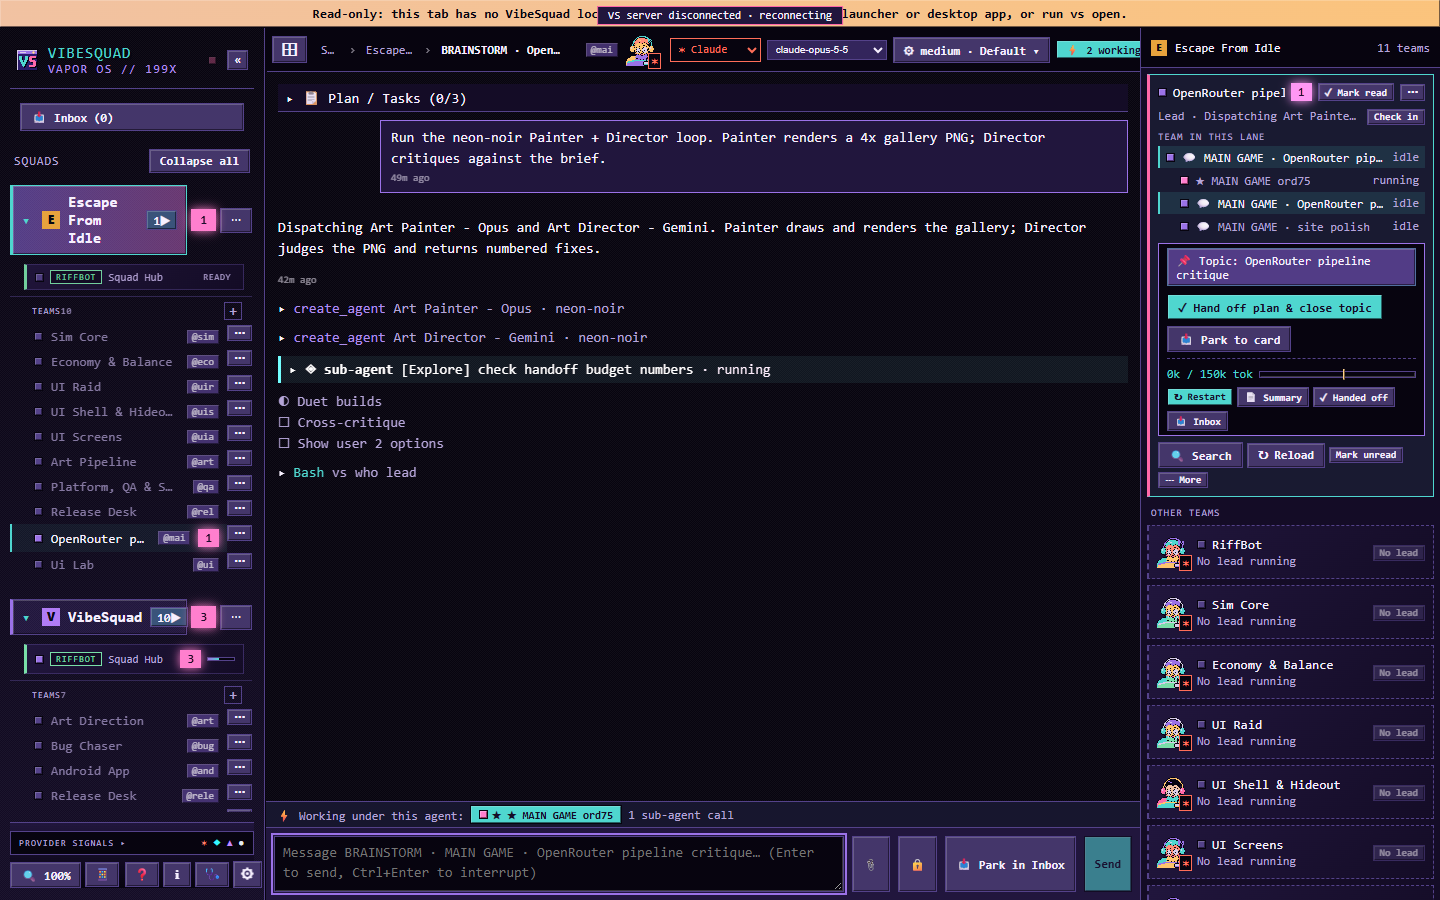
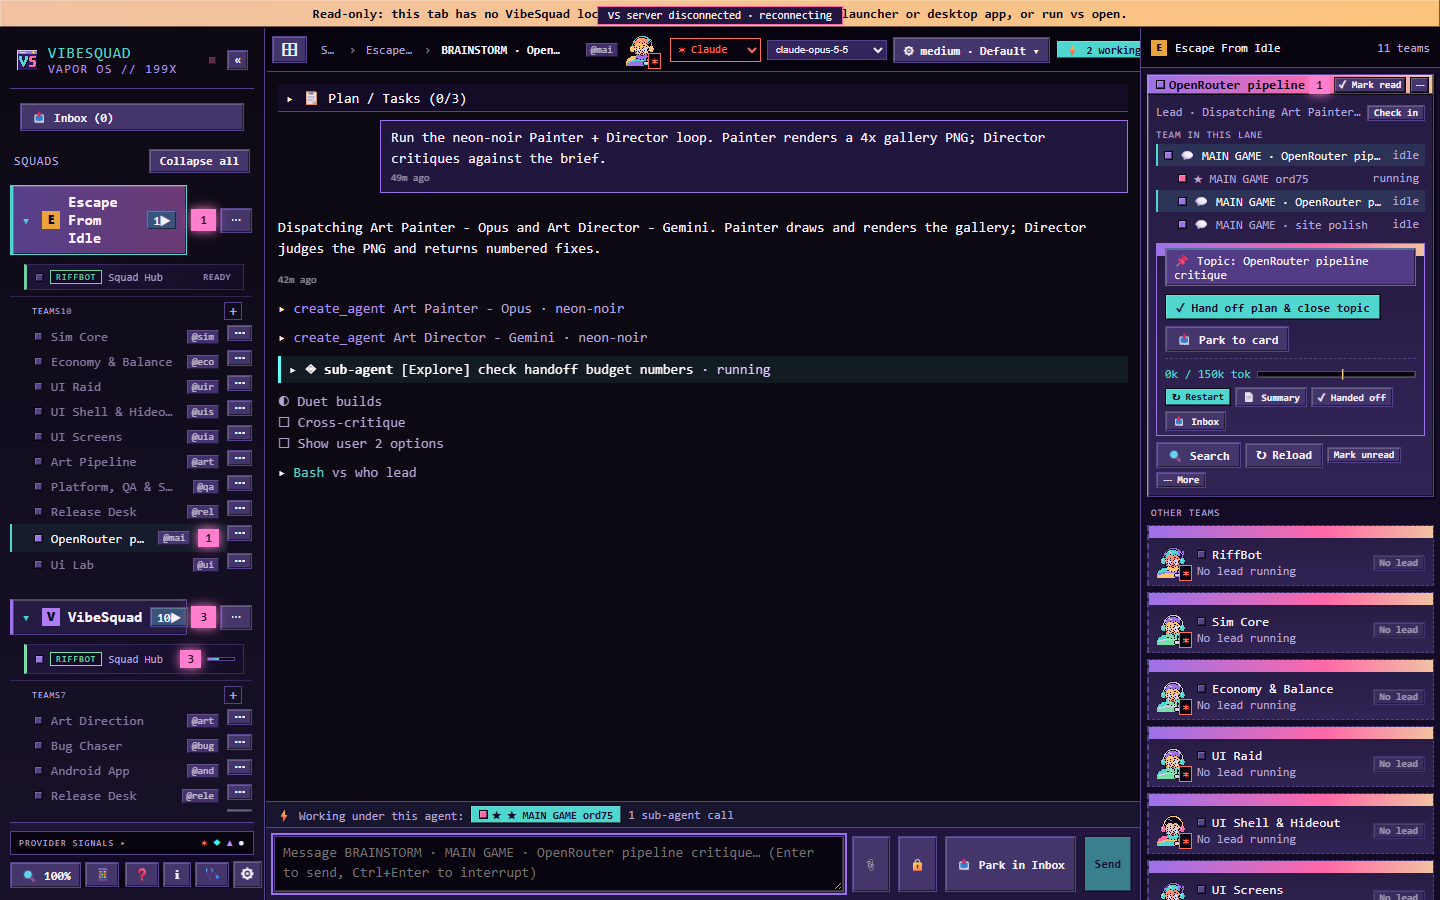
U2 R4: rail tiles/active Buddy/ctx bar skinned, drop fake window-button caps, scope pin-tile padding off pin-plus

Changed region(s): [[0.7812, 0.0622, 1.0, 1.0]]

diff --git a/src/styles.css b/src/styles.css
@@ -4783,26 +4783,25 @@ button.project-file-name:hover { text-decoration: underline; }
   --face-hi: color-mix(in srgb, var(--panel) 70%, var(--marble));
 }
 
-/* ---- window bodies: gradient + dither; --bar-h chunky Win95 title bar (gradient + two window-button squares) ---- */
+/* ---- window bodies: gradient + dither; --bar-h chunky Win95 title bar on real title rows, thin 12px gradient cap on title-less boxes ---- */
 :root {
   --bar-h: 20px;
-  --cap-imgs: linear-gradient(var(--shadow-hard), var(--shadow-hard)), linear-gradient(var(--face-hi), var(--face-hi)),
-    linear-gradient(var(--shadow-hard), var(--shadow-hard)), linear-gradient(var(--face-hi), var(--face-hi)), var(--titlebar), var(--bayer), var(--panel-grad);
-  --cap-size: 12px 12px, 10px 10px, 12px 12px, 10px 10px, 100% var(--bar-h), auto, auto;
-  --cap-pos: right 4px top 4px, right 5px top 5px, right 20px top 4px, right 21px top 5px, 0 0, 0 0, 0 0;
-  --cap-rep: no-repeat, no-repeat, no-repeat, no-repeat, no-repeat, repeat, no-repeat;
-  --cap-pad: calc(var(--bar-h) + var(--sp-2));
+  --cap-imgs: var(--titlebar), var(--bayer), var(--panel-grad);
+  --cap-size: 100% var(--sp-3), auto, auto;
+  --cap-pos: 0 0, 0 0, 0 0;
+  --cap-rep: no-repeat, repeat, no-repeat;
+  --cap-pad: calc(var(--sp-3) + var(--sp-2));
 }
 .modal, .idea-inbox, .ts-team, .ws-row, .pin-menu-list, .ctx-menu, .cmd-palette,
 .shortcut-modal, .daemon-disconnect-card, .drawer-features-menu, .drawer-sandbox-panel,
-.drawer-config-popover, .card, .squad-home-tile, .drawer-head, .sidebar-legend {
+.drawer-config-popover, .card, .squad-home-tile, .drawer-head, .sidebar-legend, .pin-rail-tile, .brainstorm-ctx-bar {
   background-color: var(--panel);
   background-image: var(--cap-imgs);
   background-size: var(--cap-size);
   background-repeat: var(--cap-rep);
   background-position: var(--cap-pos);
 }
-.handoff-panel, .pin-tile {
+.handoff-panel, .pin-tile, .pin-rail-active-buddy {
   background-color: var(--panel);
   background-image: var(--bayer), var(--panel-grad);
   background-size: auto, auto;
@@ -4811,20 +4810,22 @@ button.project-file-name:hover { text-decoration: underline; }
 }
 .modal, .handoff-panel, .idea-inbox, .ts-team, .pin-menu-list, .ctx-menu, .cmd-palette, .shortcut-modal,
 .drawer-features-menu, .drawer-sandbox-panel, .drawer-config-popover, .card, .pin-tile, .squad-home-tile,
-.daemon-disconnect-card {
+.daemon-disconnect-card, .pin-rail-active-buddy {
   border: 1px solid var(--line);
   box-shadow: var(--bevel), var(--hard);
 }
 .pin-menu-list, .ctx-menu, .drawer-features-menu, .drawer-sandbox-panel, .drawer-config-popover,
-.ws-row, .ts-team, .squad-home-tile, .sidebar-legend, .idea-inbox, .cmd-palette, .shortcut-modal { padding-top: var(--cap-pad); }
-.card { border-top: 1px solid var(--line); padding-top: calc(var(--bar-h) + var(--sp-3)); }
+.ws-row, .ts-team, .squad-home-tile, .sidebar-legend, .idea-inbox, .cmd-palette, .shortcut-modal, .pin-rail-tile, .brainstorm-ctx-bar { padding-top: var(--cap-pad); }
+.pin-rail-tile.on { background-image: var(--cap-imgs); background-color: var(--panel-hi); }
+.card { border-top: 1px solid var(--line); padding-top: calc(var(--cap-pad) + var(--sp-1)); }
 .card:hover, .card.sel, .card.card-lead, .card.card-secondary-lead, .card.card-secondary-lead.card-lead-needs-you {
   background-image: var(--cap-imgs);
   background-color: var(--panel-hi);
 }
 /* team tile (PinGrid.tsx): real title bar element with name + @code + menu button */
-.pin-tile { padding: 0 0 var(--sp-3); gap: var(--sp-2); border-top: 1px solid var(--line); }
-.pin-tile > :not(.pin-tile-bar) { margin-left: var(--sp-3); margin-right: var(--sp-3); }
+.pin-tile:not(.pin-plus) { padding: 0 0 var(--sp-3); gap: var(--sp-2); border-top: 1px solid var(--line); }
+.pin-tile.pin-plus { border-style: dashed; }
+.pin-tile:not(.pin-plus) > :not(.pin-tile-bar) { margin-left: var(--sp-3); margin-right: var(--sp-3); }
 .pin-tile-bar {
   display: flex; align-items: center; gap: var(--sp-2); height: var(--bar-h); flex: none;
   padding: 0 var(--sp-1) 0 var(--sp-2);
@@ -4976,3 +4977,13 @@ button.project-file-name:hover { text-decoration: underline; }
   box-shadow: var(--bevel-in);
 }
 .handoff-panel { padding-top: var(--sp-4); }
+
+/* chat right rail: active Buddy header is a real title bar */
+.pin-rail-active-buddy { padding-top: 0; gap: var(--sp-2); }
+.pin-rail-active-head {
+  height: var(--bar-h); flex: none; margin: 0 calc(var(--sp-2) * -1); padding: 0 var(--sp-1) 0 var(--sp-2); gap: var(--sp-1);
+  background: var(--titlebar); color: var(--on-pastel); border-bottom: 1px solid var(--shadow-hard); box-shadow: var(--bevel);
+}
+.pin-rail-active-head .pin-rail-name { flex: 1; min-width: 0; color: var(--on-pastel); font-weight: 700; overflow: hidden; text-overflow: ellipsis; white-space: nowrap; }
+.pin-rail-active-head .btn, .pin-rail-active-head .pin-menu-btn { height: 16px; padding: 0 var(--sp-1); line-height: 1; font-size: 10px; background: var(--face-hi); color: var(--text); border: 1px solid var(--shadow-hard); box-shadow: var(--bevel); }
+.pin-rail-active-head .pin-menu { display: inline-flex; align-items: center; }
